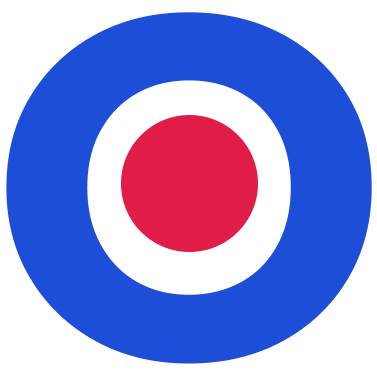
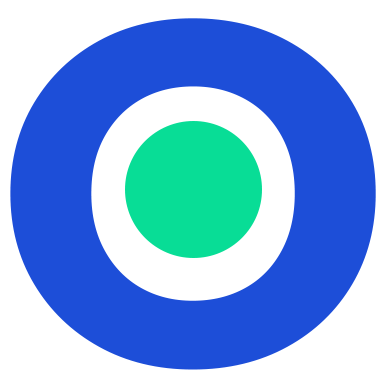
cambio en colores y animaciones

diff --git a/src/app/dashboard/page.tsx b/src/app/dashboard/page.tsx
@@ -103,9 +103,9 @@ export default function Dashboard() {
       <main className="max-w-5xl mx-auto p-4 sm:p-6 md:p-8 pt-8 space-y-6 animate-in fade-in slide-in-from-bottom-4 duration-500">
         
         {/* Welcome Section */}
-        <section className="mb-8">
+        <section className="mb-8 animate-in fade-in slide-in-from-left duration-700 ease-out">
           <h1 className="text-2xl sm:text-4xl font-headline font-black text-brand-blue tracking-tight">
-            Hola, <span className="text-brand-pink pr-1">Estudiante</span> 👋
+            Hola, <span className="text-brand-pink pr-1 inline-block hover:animate-bounce cursor-default">Estudiante</span> 👋
           </h1>
           <p className="text-slate-500 mt-2 text-lg font-medium">Aquí tienes un resumen de todos los currículums de aprendizaje que te han sido asignados.</p>
         </section>
@@ -154,7 +154,7 @@ export default function Dashboard() {
               </Card>
             ) : (
                 assignedModules.map((mod, index) => (
-                  <Card key={mod.id} className="shadow-lg border-brand-blue/10 hover:border-brand-blue/30 transition-all duration-300 hover:shadow-xl group overflow-hidden relative rounded-3xl bg-white/90 backdrop-blur-sm">
+                  <Card key={mod.id} className="hover-lift shadow-lg border-brand-blue/10 hover:border-brand-blue/30 group overflow-hidden relative rounded-3xl bg-white/90 backdrop-blur-sm">
                     <div className="absolute top-0 right-0 w-32 h-32 bg-brand-lightblue/10 rounded-bl-full -z-10 group-hover:bg-brand-lightblue/20 transition-colors"></div>
                     <CardHeader className="bg-transparent pb-4 relative z-0">
                       <div className="flex justify-between items-start">
@@ -171,13 +171,19 @@ export default function Dashboard() {
                       {/* Progress Metrics */}
                       <div className="flex justify-between text-sm mb-2 font-bold">
                         <span className="text-brand-blue flex items-center gap-1.5"><Trophy className="h-4 w-4 text-brand-gold"/> Avance General</span>
-                        <span className="font-black flex items-center gap-1.5 text-brand-blue">{mod.progress_percentage}%<span className="text-slate-400 font-medium text-xs">/ 100%</span></span>
+                        <span className="font-black flex items-center gap-1.5 text-brand-blue">
+                          {mod.progress_percentage}%
+                          <span className="text-slate-400 font-medium text-xs">/ 100%</span>
+                        </span>
                       </div>
-                      <Progress value={mod.progress_percentage || 0} className="h-3 mb-6 bg-slate-100" />
+                      <Progress 
+                        value={mod.progress_percentage || 0} 
+                        className={`h-3 mb-6 bg-slate-100 transition-all duration-1000 ${mod.progress_percentage >= 100 ? '[&>div]:bg-brand-green' : '[&>div]:bg-brand-blue'}`} 
+                      />
                       
                       <div className="flex flex-col sm:flex-row gap-3">
                         <Link href={`/module/${mod.id}`} className={mod.progress_percentage >= 100 ? "flex-1" : "w-full"}>
-                          <Button className={`w-full h-12 text-base font-bold shadow-md hover:shadow-lg transition-all ${mod.progress_percentage >= 100 ? "bg-brand-blue hover:bg-[#163BB5] text-white" : "bg-brand-blue hover:bg-[#163BB5] text-white"}`} variant="default" size="lg">
+                          <Button className={`w-full h-12 text-base font-bold shadow-md hover:shadow-lg transition-all active:scale-95 ${mod.progress_percentage >= 100 ? "bg-brand-blue hover:bg-[#163BB5] text-white" : "bg-gradient-playful hover:opacity-90 text-white"}`} variant="default" size="lg">
                             {mod.progress_percentage > 0 && mod.progress_percentage < 100 ? "Continuar Entrenando" : 
                              mod.progress_percentage >= 100 ? "Repasar Módulo" : "Comenzar Ahora"}
                           </Button>

diff --git a/src/components/module/ModuleViewer.tsx b/src/components/module/ModuleViewer.tsx
@@ -13,6 +13,9 @@ import { cn } from "@/lib/utils";
 import { createClient } from '@/utils/supabase/client';
 import { Logo } from "@/components/ui/logo";
 import { useRouter } from 'next/navigation';
+import { Card } from "@/components/ui/card";
+import { Trophy } from "lucide-react";
+import Link from 'next/link';
 
 export function ModuleViewer({ moduleId }: { moduleId: string }) {
   const router = useRouter();
@@ -218,7 +221,10 @@ export function ModuleViewer({ moduleId }: { moduleId: string }) {
               <span>Progreso General</span>
               <span>{progress}%</span>
             </div>
-            <Progress value={progress} className="h-2 bg-primary/10" />
+            <Progress 
+              value={progress} 
+              className={`h-2 transition-all duration-1000 ${progress >= 100 ? '[&>div]:bg-brand-green' : 'bg-primary/10'}`} 
+            />
           </div>
         </div>
       </aside>
@@ -243,8 +249,8 @@ export function ModuleViewer({ moduleId }: { moduleId: string }) {
         </header>
 
         {/* Section Content */}
-        <ScrollArea className="flex-1 bg-background/50 h-full max-h-[calc(100vh-4rem)] relative flex flex-col [&>div>div]:!block">
-          <div className="max-w-6xl mx-auto px-4 md:px-12 py-6 pb-[calc(1.5rem+env(safe-area-inset-bottom))] min-h-[calc(100vh-4rem)] flex flex-col justify-center animate-in fade-in duration-500">
+        <ScrollArea className="flex-1 bg-background/50 h-full max-h-[calc(100vh-4rem)] relative flex flex-col [&>div>div]:!block overflow-hidden">
+          <div key={currentSection.id} className="max-w-6xl mx-auto px-4 md:px-12 py-6 pb-[calc(1.5rem+env(safe-area-inset-bottom))] min-h-[calc(100vh-4rem)] flex flex-col justify-center animate-in fade-in slide-in-from-bottom-4 duration-500 ease-out">
             {currentSection.type === 'content' && (
               <div className="flex flex-col flex-1 h-full">
                 <div className="flex-1 flex flex-col gap-6 md:gap-8 items-center justify-start min-h-0 h-full overflow-y-auto py-4 px-2">
@@ -282,6 +288,25 @@ export function ModuleViewer({ moduleId }: { moduleId: string }) {
                         {currentSection.content}
                       </p>
                     </div>
+
+                    {/* Celebration Card for Final Section */}
+                    {currentSectionIndex === moduleData.sections.length - 1 && progress >= 100 && (
+                      <Card className="bg-gradient-success border-none text-white p-6 shadow-xl animate-bounce-subtle rounded-3xl overflow-hidden relative">
+                        <div className="absolute -right-4 -top-4 w-24 h-24 bg-white/20 rounded-full blur-2xl animate-pulse"></div>
+                        <div className="relative z-10 flex flex-col items-center text-center gap-3">
+                          <Trophy className="h-12 w-12 text-brand-yellow drop-shadow-md" />
+                          <div>
+                            <h3 className="text-xl font-black font-headline tracking-tight">¡Módulo Completado!</h3>
+                            <p className="text-sm font-medium opacity-90">Has dominado satisfactoriamente todo el contenido de este currículum.</p>
+                          </div>
+                          <Link href="/dashboard" className="mt-2 w-full">
+                            <Button variant="secondary" className="w-full font-bold h-11 bg-white text-[#08dd96] hover:bg-white/90 border-none shadow-lg active:scale-95">
+                              Volver al Dashboard
+                            </Button>
+                          </Link>
+                        </div>
+                      </Card>
+                    )}
 
                     <div className="pt-4 border-t border-border/50 shrink-0">
                       <AIHelper 

diff --git a/src/app/admin/dashboard/page.tsx b/src/app/admin/dashboard/page.tsx
@@ -466,13 +466,13 @@ export default function AdminDashboard() {
 
         <Tabs defaultValue="overview" className="w-full">
           <TabsList className="mb-6 bg-slate-100 p-1.5 rounded-lg flex flex-wrap h-auto w-full max-w-[600px] border border-slate-200">
-            <TabsTrigger value="overview" className="flex-1 py-2 rounded-md font-bold data-[state=active]:bg-white data-[state=active]:shadow-sm flex items-center gap-1.5 justify-center">
+            <TabsTrigger value="overview" className="flex-1 py-2 rounded-md font-bold transition-all data-[state=active]:bg-white data-[state=active]:shadow-md data-[state=active]:scale-[1.02] flex items-center gap-1.5 justify-center">
               <TrendingUp className="h-4 w-4" /> <span className="hidden xs:inline">Estadísticas</span>
             </TabsTrigger>
-            <TabsTrigger value="users" className="flex-1 py-2 rounded-md font-bold data-[state=active]:bg-white data-[state=active]:shadow-sm flex items-center gap-1.5 justify-center">
+            <TabsTrigger value="users" className="flex-1 py-2 rounded-md font-bold transition-all data-[state=active]:bg-white data-[state=active]:shadow-md data-[state=active]:scale-[1.02] flex items-center gap-1.5 justify-center">
               <Users className="h-4 w-4" /> <span className="hidden xs:inline">Usuarios</span>
             </TabsTrigger>
-            <TabsTrigger value="modules" className="flex-1 py-2 rounded-md font-bold data-[state=active]:bg-white data-[state=active]:shadow-sm flex items-center gap-1.5 justify-center">
+            <TabsTrigger value="modules" className="flex-1 py-2 rounded-md font-bold transition-all data-[state=active]:bg-white data-[state=active]:shadow-md data-[state=active]:scale-[1.02] flex items-center gap-1.5 justify-center">
               <Book className="h-4 w-4" /> <span className="hidden xs:inline">Módulos</span>
             </TabsTrigger>
           </TabsList>
@@ -549,7 +549,7 @@ export default function AdminDashboard() {
                       <button
                         key={user.id}
                         onClick={() => setSelectedUserStats(user)}
-                        className="w-full text-left p-4 hover:bg-muted/40 transition-colors"
+                        className="w-full text-left p-4 hover:bg-brand-blue/5 transition-all active:scale-[0.98] border-l-4 border-transparent hover:border-brand-blue"
                       >
                         <div className="flex items-center justify-between mb-2">
                           <div>

diff --git a/src/app/page.tsx b/src/app/page.tsx
@@ -49,12 +49,12 @@ export default function Home() {
             <div className="space-y-6 relative z-20 text-center lg:text-left flex flex-col items-center lg:items-start order-last lg:order-first">
               <div className="inline-flex items-center gap-2 px-4 py-1.5 rounded-full bg-brand-lightblue/30 border border-brand-blue/20 text-brand-blue text-[11px] font-black uppercase tracking-[0.2em] shadow-sm backdrop-blur-md">
                 <Zap className="h-3 w-3 fill-brand-gold text-brand-gold" />
-                Cero Papeleo. 100% Digital.
+                Cero Papeleo y 100% Digital
               </div>
               
               <h1 className="text-5xl sm:text-6xl lg:text-[4.5rem] font-headline font-black leading-[1.05] tracking-tighter text-brand-blue">
                 Entrenamiento <br className="hidden lg:block" />
-                <span className="text-brand-pink lg:block">
+                <span className="text-brand-green lg:block">
                   Directo y Vital
                 </span>
               </h1>
@@ -84,11 +84,11 @@ export default function Home() {
             </div>
             
             <div className="bg-white/80 backdrop-blur-md border border-brand-blue/10 rounded-3xl p-6 sm:p-7 hover:border-brand-blue/30 transition-colors shadow-xl shadow-brand-blue/5">
-              <div className="bg-brand-pink/20 w-12 h-12 rounded-xl flex items-center justify-center mb-4 border border-brand-pink/30">
-                <Shield className="h-5 w-5 text-brand-pink" />
+              <div className="bg-brand-green/20 w-12 h-12 rounded-xl flex items-center justify-center mb-4 border border-brand-green/30">
+                <Shield className="h-5 w-5 text-brand-green" />
               </div>
               <h3 className="text-lg sm:text-xl font-headline font-bold text-brand-blue mb-2">Diplomas Encriptados</h3>
-              <p className="text-slate-600 text-sm leading-relaxed font-medium">DiaCero firma encriptadamente tu evaluación finalizada, emitiendo PDFs directos ajustados automáticamente a hoja física formato A4.</p>
+              <p className="text-slate-600 text-sm leading-relaxed font-medium">DiaCero firma encriptadamente tu evaluación finalizada, emitiendo PDFs directos listos para ser impresos.</p>
             </div>
           </div>
 

diff --git a/src/app/settings/page.tsx b/src/app/settings/page.tsx
@@ -131,7 +131,7 @@ export default function SettingsPage() {
                  <Input id="u-name" value={name} onChange={e=>setName(e.target.value)} required className="h-12 bg-slate-50 border-brand-blue/10 focus:bg-white focus:border-brand-pink focus:ring-brand-pink/30 text-lg font-bold text-brand-blue rounded-xl" />
                </div>
                <div className="flex justify-end pt-2">
-                 <Button type="submit" disabled={isSavingName} className="bg-brand-blue hover:hover:bg-opacity-90 h-12 px-8 shadow-lg shadow-brand-blue/20 font-bold rounded-xl text-white">
+                 <Button type="submit" disabled={isSavingName} className="hover-lift w-full sm:w-auto bg-brand-blue hover:hover:bg-opacity-90 h-12 px-8 shadow-lg shadow-brand-blue/20 font-bold rounded-xl text-white active:scale-95">
                    {isSavingName ? <Loader2 className="mr-2 h-4 w-4 animate-spin"/> : <Save className="mr-2 h-4 w-4" />}
                    Sellar Identidad
                  </Button>
@@ -156,7 +156,7 @@ export default function SettingsPage() {
                  <Input id="u-pwd" type="password" placeholder="Inserte nueva contraseña" value={newPassword} onChange={e=>setNewPassword(e.target.value)} required minLength={6} className="h-12 bg-slate-50 border-brand-gold/20 focus:bg-white focus:border-brand-gold focus:ring-brand-gold/30 text-lg rounded-xl text-brand-blue pl-4" />
                </div>
                <div className="flex justify-end pt-2">
-                 <Button type="submit" disabled={isSavingPassword || newPassword.length < 6} className="bg-brand-gold hover:bg-[#c2933d] text-white h-12 px-8 shadow-lg shadow-brand-gold/20 font-bold tracking-wide rounded-xl">
+                 <Button type="submit" disabled={isSavingPassword || newPassword.length < 6} className="hover-lift w-full sm:w-auto bg-brand-gold hover:bg-[#c2933d] text-white h-12 px-8 shadow-lg shadow-brand-gold/20 font-bold tracking-wide rounded-xl active:scale-95">
                    {isSavingPassword ? <Loader2 className="mr-2 h-4 w-4 animate-spin"/> : "Reforzar Contraseña"}
                  </Button>
                </div>

diff --git a/src/components/module/AIHelper.tsx b/src/components/module/AIHelper.tsx
@@ -56,16 +56,16 @@ export function AIHelper({ sectionContent, sectionTitle }: AIHelperProps) {
   };
 
   return (
-    <div className="space-y-4">
+    <div className={`space-y-4 transition-all duration-500 ${loading ? 'opacity-80 scale-[0.98]' : 'opacity-100 scale-100'}`}>
       <div className="flex flex-col sm:flex-row gap-2">
         <Button 
           variant="outline" 
           size="sm" 
           onClick={handleSummarize} 
           disabled={loading}
-          className="border-accent/30 text-accent hover:bg-accent/5 flex-1 sm:flex-initial"
+          className="hover-lift border-accent/30 text-accent hover:bg-accent/5 flex-1 sm:flex-initial active:scale-95"
         >
-          {loading ? <Loader2 className="h-4 w-4 mr-2 animate-spin" /> : <Sparkles className="h-4 w-4 mr-2" />}
+          {loading ? <Loader2 className="h-4 w-4 mr-2 animate-spin" /> : <Sparkles className="h-4 w-4 mr-2 animate-bounce-subtle" />}
           Resumen Rápido
         </Button>
         <Button 
@@ -73,9 +73,9 @@ export function AIHelper({ sectionContent, sectionTitle }: AIHelperProps) {
           size="sm" 
           onClick={handleSimplify} 
           disabled={loading}
-          className="border-primary/30 text-primary hover:bg-primary/5 flex-1 sm:flex-initial"
+          className="hover-lift border-primary/30 text-primary hover:bg-primary/5 flex-1 sm:flex-initial active:scale-95"
         >
-          {loading ? <Loader2 className="h-4 w-4 mr-2 animate-spin" /> : <Brain className="h-4 w-4 mr-2" />}
+          {loading ? <Loader2 className="h-4 w-4 mr-2 animate-spin" /> : <Brain className="h-4 w-4 mr-2 animate-pulse" />}
           Explicar de Forma Sencilla
         </Button>
       </div>

diff --git a/src/app/globals.css b/src/app/globals.css
@@ -35,7 +35,7 @@
     --border: 220 25% 88%;
     --input: 220 25% 88%;
     --ring: 224 71% 47%;
-    --radius: 0.75rem;
+    --radius: 1rem; /* Aumentado para Playful UI */
 
     /* Data Viz */
     --chart-1: 224 71% 47%; /* azul primary */
@@ -82,5 +82,28 @@
     color: #94a3b8;      /* slate-400 — visible pero claramente secundario */
     font-style: italic;  /* cursiva para indicar que no es contenido real */
     opacity: 1;          /* Firefox normalización */
+  }
+}
+
+@layer utilities {
+  .animate-bounce-subtle {
+    animation: bounce-subtle 0.6s cubic-bezier(0.175, 0.885, 0.32, 1.275);
+  }
+
+  .hover-lift {
+    @apply transition-all duration-300 hover:-translate-y-1 hover:shadow-xl active:scale-95;
+  }
+
+  .bg-gradient-playful {
+    @apply bg-gradient-to-br from-brand-blue to-brand-lightblue;
+  }
+
+  .bg-gradient-success {
+    @apply bg-gradient-to-br from-[#08dd96] to-[#04b87d];
+  }
+
+  @keyframes bounce-subtle {
+    0%, 100% { transform: scale(1); }
+    50% { transform: scale(1.05); }
   }
 }

diff --git a/src/components/auth/LoginForm.tsx b/src/components/auth/LoginForm.tsx
@@ -126,7 +126,7 @@ export function LoginForm({
         </div>
         <Button 
           type="submit" 
-          className="w-full h-12 text-sm font-black bg-brand-pink hover:bg-[#c9788d] text-white mt-4 rounded-xl shadow-lg shadow-brand-pink/30 transition-all uppercase tracking-wide" 
+          className="hover-lift w-full h-12 text-sm font-black bg-brand-green hover:bg-[#06c283] text-white mt-4 rounded-xl shadow-lg shadow-brand-green/30 transition-all uppercase tracking-wide active:scale-95" 
           disabled={loading}
         >
           {loading ? <Loader2 className="h-5 w-5 animate-spin" /> : "Iniciar Formación Ahora"}

diff --git a/tailwind.config.ts b/tailwind.config.ts
@@ -29,6 +29,7 @@ export default {
           lightblue: '#38BDF8', /* Azul cielo vivo → antes azul pastel */
           yellow: '#FEF08A',    /* Amarillo limón → antes beige amarillo */
           gold: '#F59E0B',      /* Ámbar dorado → antes dorado apagado */
+          green: '#08dd96',     /* Verde Cero → nuevo color Playful */
         },
         background: 'hsl(var(--background))',
         foreground: 'hsl(var(--foreground))',
